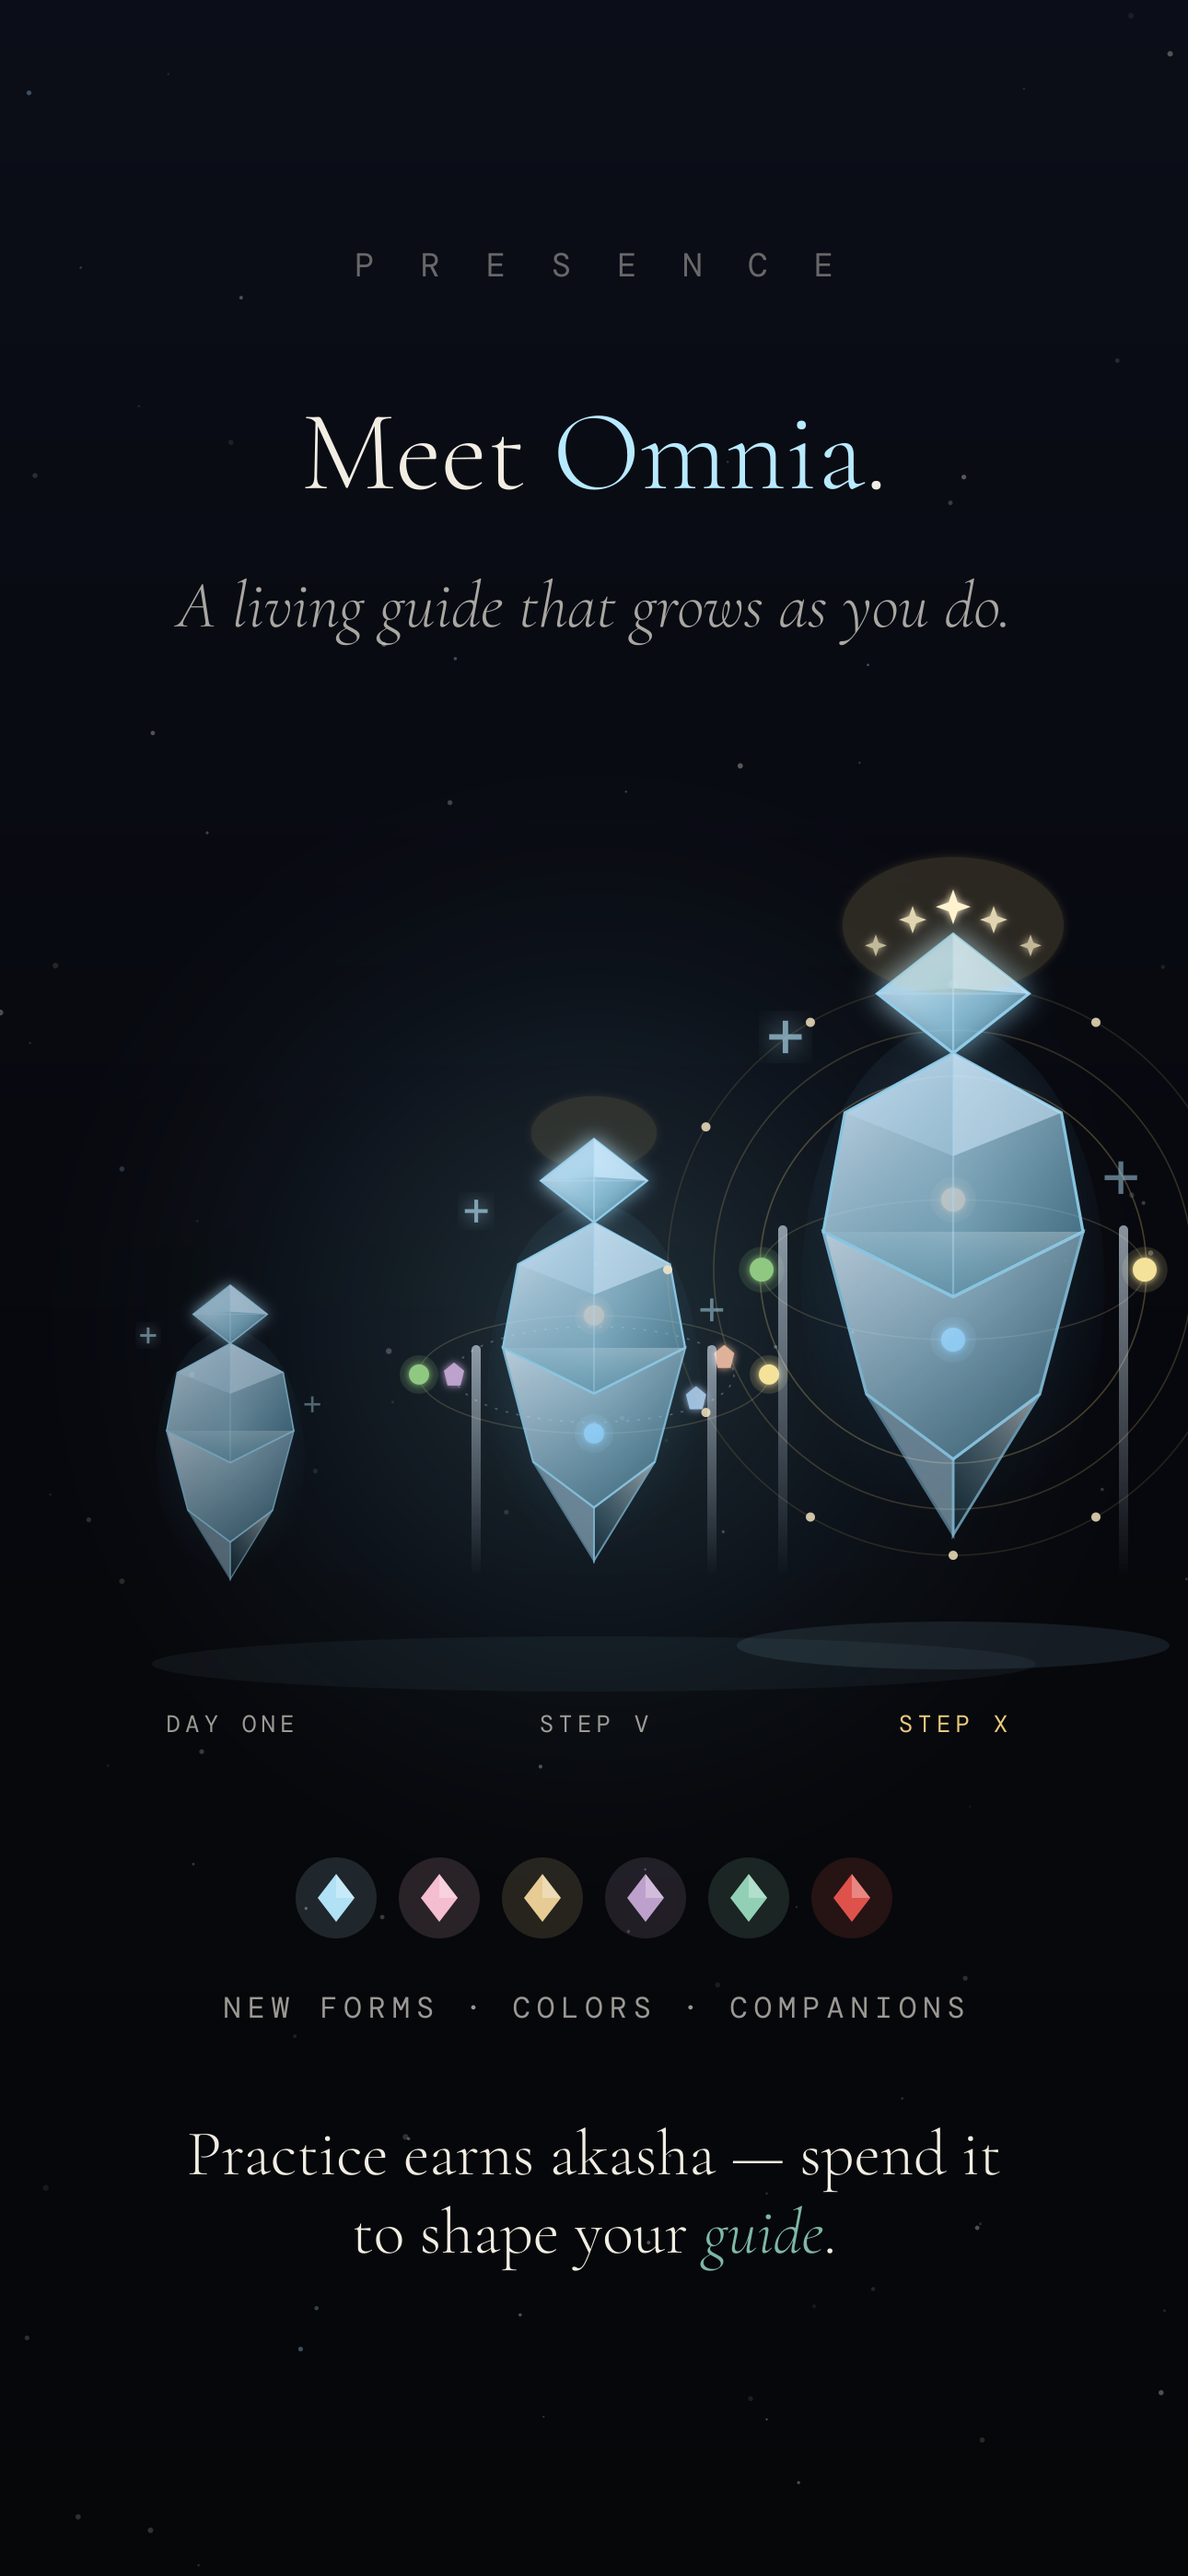
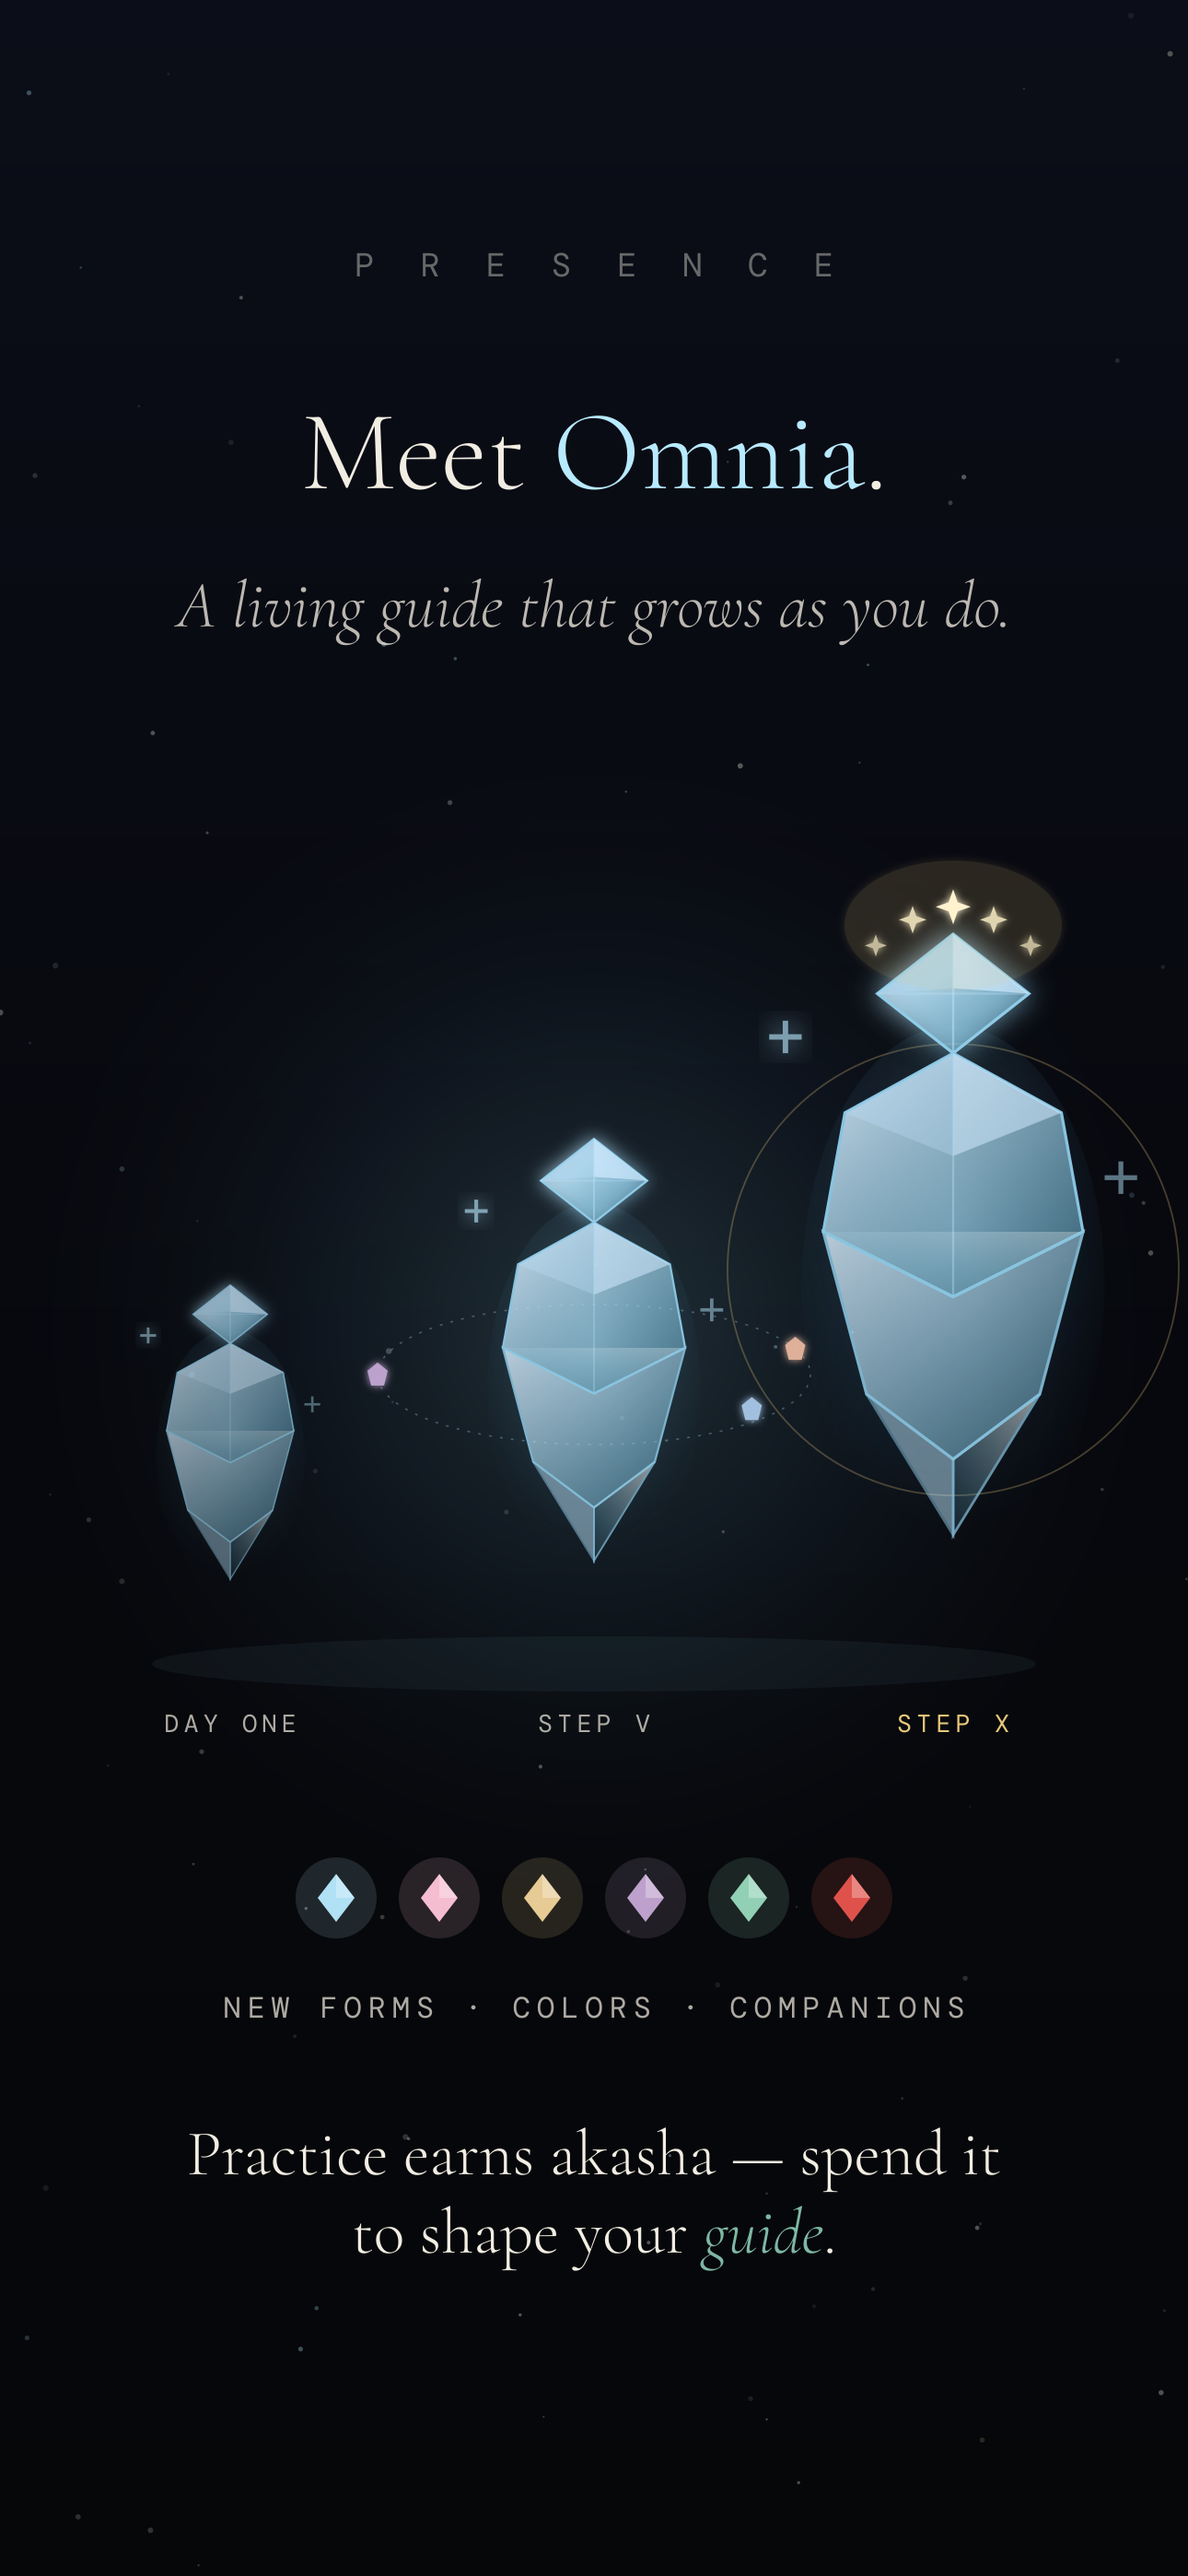
Marketing screenshots round 2: brighter copy, decluttered cards 02-05
- 02: headline 'Structured, interactive occult exercises.' in ink (green removed); 'The Clock' -> 'Clock'
- 03: clean growth triptych, removed element-wheel/pillar/mandala clutter
- 04: 'A path adapted to you.'; brighter meta text for legibility
- 05: 'LEVEL UP' copy; removed three stat chips; enlarged sphere ring

diff --git a/marketing/generate.js b/marketing/generate.js
@@ -181,7 +181,7 @@ const INK2 = 'rgba(232,227,216,0.66)';
 function card2() {
   // In-game exercise cards: stacked full-width, per-exercise accent tint.
   const rows = [
-    { id:'clock',      name: 'The Clock',       sub: 'UNBROKEN FOCUS',  c: '#e07c3a' },
+    { id:'clock',      name: 'Clock',           sub: 'UNBROKEN FOCUS',  c: '#e07c3a' },
     { id:'visual',     name: 'Visualization',   sub: 'THE INNER EYE',   c: '#6e9fd4' },
     { id:'auditory',   name: 'Auditory',        sub: 'THE INNER EAR',   c: '#6eb8a4' },
     { id:'thought',    name: 'Thought Control', sub: 'MASTER THE MIND', c: '#7898b8' },
@@ -208,13 +208,13 @@ function card2() {
   return shell(`
   <defs>${defs}</defs>
   ${wordmark(300)}
-  ${serif(W / 2, 530, 116, INK, 'Interactive,')}
-  ${serif(W / 2, 670, 116, ACCENT, 'occult exercises.', 'middle', 'font-style="italic"')}
+  ${serif(W / 2, 530, 112, INK, 'Structured, interactive')}
+  ${serif(W / 2, 670, 112, INK, 'occult exercises.', 'middle', 'font-style="italic"')}
   ${g}
   `, 19);
 }
 
-// ── card 3: meet Omnia — grown with the app's real step regalia ──────────────
+// ── card 3: meet Omnia — clean growth triptych ───────────────────────────────
 
 function card3() {
   const BASE = 1760;
@@ -229,42 +229,17 @@ function card3() {
   const cx2 = forms[1].cx, cx3 = forms[2].cx;
   const top3 = BASE - 130 * (forms[2].w / 80);
 
-  // In-game tiers, cumulative:
-  // II triad shards · III crown glow · IV polar pillars · V element wheel
+  // Step V: one quiet orbit with the three body-shards.
   const shardCols = ['#e8b8a0', '#c4a8d4', '#a8c8e8'];
-  const orbit = (cx, cy, rx, ry) => {
-    let o = `<ellipse cx="${cx}" cy="${cy}" rx="${rx}" ry="${ry}" fill="none" stroke="#b8eaff" stroke-opacity="0.3" stroke-width="1.6" stroke-dasharray="3 9"/>`;
-    [[0.06, -1], [0.5, 1.06], [0.88, -0.72]].forEach((p, i) => {
-      const a = p[0] * Math.PI * 2, sx = cx + Math.cos(a) * rx, sy = cy + Math.sin(a) * ry * p[1];
-      o += `<polygon points="${sx},${sy - 13} ${sx + 11},${sy - 4} ${sx + 7},${sy + 12} ${sx - 7},${sy + 12} ${sx - 11},${sy - 4}" fill="${shardCols[i]}" opacity="0.95" filter="url(#soft)"/>`;
-    });
-    return o;
-  };
-  const elements = (cx, cy, rx, ry, r) => {
-    const cols = ['#ff8b4d', '#f5e29a', '#6bb8ff', '#8fc880']; // fire air water earth
-    let e = `<ellipse cx="${cx}" cy="${cy}" rx="${rx}" ry="${ry}" fill="none" stroke="#f5e29a" stroke-opacity="0.18" stroke-width="1.4"/>`;
-    [[0, -1], [1, 0], [0, 1], [-1, 0]].forEach((d, i) => {
-      const ex = cx + d[0] * rx, ey = cy + d[1] * ry;
-      e += `<circle cx="${ex}" cy="${ey}" r="${r}" fill="${cols[i]}" filter="url(#soft)"/>
-            <circle cx="${ex}" cy="${ey}" r="${r * 1.9}" fill="${cols[i]}" opacity="0.14"/>`;
-    });
-    return e;
-  };
-  const crownGlow = (cx, cy, rx, ry, o) =>
-    `<ellipse cx="${cx}" cy="${cy}" rx="${rx}" ry="${ry}" fill="${GOLD}" opacity="${o}" filter="url(#soft)"/>`;
-  const pillar = (px, h) => `<rect x="${px - 5}" y="${BASE - h - 50}" width="10" height="${h}" rx="5" fill="url(#pillarG)" opacity="0.7"/>`;
-  // X: apotheosis mandala + mirror disc
-  const apo = () => {
-    let a = '';
-    [[210, 0.28], [260, 0.20], [310, 0.13]].forEach((rr) => {
-      a += `<circle cx="${cx3}" cy="${bigCy}" r="${rr[0]}" fill="none" stroke="${GOLD}" stroke-opacity="${rr[1]}" stroke-width="1.6"/>`;
-    });
-    for (let i = 0; i < 12; i++) {
-      const an = (i / 12) * Math.PI * 2;
-      a += `<circle cx="${cx3 + Math.cos(an) * 310}" cy="${bigCy + Math.sin(an) * 310}" r="5" fill="#ffeec8" opacity="0.8"/>`;
-    }
-    return a;
-  };
+  let orbit = `<ellipse cx="${cx2}" cy="${midCy}" rx="235" ry="76" fill="none" stroke="#b8eaff" stroke-opacity="0.3" stroke-width="1.6" stroke-dasharray="3 9"/>`;
+  [[0.06, -1], [0.5, 1.06], [0.88, -0.72]].forEach((pp, i) => {
+    const a = pp[0] * Math.PI * 2, sx = cx2 + Math.cos(a) * 235, sy = midCy + Math.sin(a) * 76 * pp[1];
+    orbit += `<polygon points="${sx},${sy - 13} ${sx + 11},${sy - 4} ${sx + 7},${sy + 12} ${sx - 7},${sy + 12} ${sx - 11},${sy - 4}" fill="${shardCols[i]}" opacity="0.95" filter="url(#soft)"/>`;
+  });
+
+  // Step X: halo, drawn diadem, and a single thin gold ring.
+  const halo = `<ellipse cx="${cx3}" cy="${top3 + 8}" rx="118" ry="70" fill="${GOLD}" opacity="0.15" filter="url(#soft)"/>`;
+  const ringX = `<circle cx="${cx3}" cy="${bigCy}" r="245" fill="none" stroke="${GOLD}" stroke-opacity="0.28" stroke-width="1.8"/>`;
   const diadem =
     star4(cx3 - 84, top3 + 30, 12, '#f4e8c0', 0.75) +
     star4(cx3 - 44, top3 + 2, 15, '#f4e8c0', 0.9) +
@@ -281,35 +256,23 @@ function card3() {
       <polygon points="${x},${y - 26} ${x + 20},${y} ${x},${y}" fill="#ffffff" opacity="0.30"/>`;
   });
   return shell(`
-  <defs>
-    <linearGradient id="pillarG" x1="0" y1="0" x2="0" y2="1">
-      <stop offset="0" stop-color="#dff0ff" stop-opacity="0.85"/>
-      <stop offset="1" stop-color="#dff0ff" stop-opacity="0"/>
-    </linearGradient>
-  </defs>
   <ellipse cx="${W / 2}" cy="1440" rx="640" ry="660" fill="url(#glow)"/>
   ${wordmark(300)}
   ${serif(W / 2, 530, 124, INK, `Meet <tspan fill="${BLUE}">Omnia</tspan>.`)}
-  ${serif(W / 2, 680, 72, 'rgba(232,227,216,0.72)', 'A living guide that grows as you do.', 'middle', 'font-style="italic"')}
+  ${serif(W / 2, 680, 72, 'rgba(238,233,222,0.78)', 'A living guide that grows as you do.', 'middle', 'font-style="italic"')}
   <g opacity="0.8">${at('c3a', forms[0])}</g>
-  ${elements(cx2, midCy, 190, 64, 11)}
-  ${orbit(cx2, midCy, 152, 52)}
-  ${pillar(cx2 - 128, 250)}${pillar(cx2 + 128, 250)}
-  ${crownGlow(cx2, midCy - 130 * (forms[1].w / 80) / 2 + 6, 68, 40, 0.13)}
+  ${orbit}
   ${at('c3b', forms[1])}
-  ${apo()}
-  ${elements(cx3, bigCy, 208, 76, 13)}
-  ${pillar(cx3 - 185, 380)}${pillar(cx3 + 185, 380)}
+  ${ringX}
   ${at('c3c', forms[2])}
-  ${crownGlow(cx3, top3 + 8, 120, 74, 0.16)}
+  ${halo}
   ${diadem}
-  <ellipse cx="${cx3}" cy="${BASE + 26}" rx="235" ry="26" fill="#a0d2f0" opacity="0.10"/>
   <ellipse cx="${W / 2}" cy="${BASE + 46}" rx="480" ry="30" fill="#8ecce0" opacity="0.06"/>
-  ${mono(forms[0].cx, BASE + 120, 26, INK2, forms[0].label, 5)}
-  ${mono(forms[1].cx, BASE + 120, 26, INK2, forms[1].label, 5)}
-  ${mono(forms[2].cx, BASE + 120, 26, GOLD, forms[2].label, 5)}
+  ${mono(forms[0].cx, BASE + 120, 27, 'rgba(238,233,222,0.72)', forms[0].label, 5)}
+  ${mono(forms[1].cx, BASE + 120, 27, 'rgba(238,233,222,0.72)', forms[1].label, 5)}
+  ${mono(forms[2].cx, BASE + 120, 27, GOLD, forms[2].label, 5)}
   ${gems}
-  ${mono(W / 2, 2190, 32, INK2, 'NEW FORMS · COLORS · COMPANIONS', 7)}
+  ${mono(W / 2, 2190, 32, 'rgba(238,233,222,0.72)', 'NEW FORMS · COLORS · COMPANIONS', 7)}
   ${serif(W / 2, 2360, 70, INK, 'Practice earns akasha — spend it', 'middle')}
   ${serif(W / 2, 2445, 70, INK, `to shape your <tspan fill="${ACCENT}" font-style="italic">guide</tspan>.`, 'middle')}
   `, 41);
@@ -348,16 +311,16 @@ function card4() {
     <text x="${chipX}" y="${chipY + 20}" font-family="DejaVu Sans" font-size="52" fill="${r.c}" text-anchor="middle">${r.glyph}</text>
     ${doneMark}
     ${serif(x + 190, y + 100, 60, INK, r.name, 'start')}
-    ${mono(x + 192, y + 158, 27, INK2, r.meta, 4, 'start')}
+    ${mono(x + 192, y + 160, 30, 'rgba(240,235,225,0.82)', r.meta, 4, 'start')}
     ${badge}
     <rect x="${x + 190}" y="${y + 210}" width="${w - 310}" height="8" rx="4" fill="rgba(221,216,206,0.10)"/>
     <rect x="${x + 190}" y="${y + 210}" width="${(w - 310) * r.prog}" height="8" rx="4" fill="${r.c}" opacity="0.85"/>`;
   });
   return shell(`
   ${wordmark(300)}
-  ${serif(W / 2, 530, 116, INK, 'A path paced')}
+  ${serif(W / 2, 530, 116, INK, 'A path adapted')}
   ${serif(W / 2, 670, 116, INK, `to <tspan fill="${ACCENT}" font-style="italic">you</tspan>.`)}
-  ${mono(W / 2, 800, 36, INK2, 'OMNIA BUILDS EACH DAY AROUND YOUR NUMBERS', 5)}
+  ${mono(W / 2, 800, 37, 'rgba(240,235,225,0.82)', 'OMNIA BUILDS EACH DAY AROUND YOUR NUMBERS', 5)}
   ${g}
   `, 67);
 }
@@ -377,7 +340,7 @@ function goldCrystal(idp) {
 }
 
 function card5() {
-  const cx = W / 2, cy = 1500, R = 430;
+  const cx = W / 2, cy = 1580, R = 480;
   const spheres = [
     ['⊕', '#9cb88a'], ['☽', '#cdd6e8'], ['☿', '#e8b060'], ['♀', '#e89ab8'], ['☉', '#f0d860'],
     ['♂', '#e06858'], ['♃', '#8898e8'], ['♄', '#8a98b0'], ['♅', '#7ed8e8'], ['♇', '#9a6ae8'],
@@ -394,37 +357,19 @@ function card5() {
       <text x="${sx}" y="${sy + 22}" font-family="DejaVu Sans" font-size="58" fill="${sp[1]}" text-anchor="middle" filter="url(#soft)">${sp[0]}</text>`;
   });
   // prestige pips beneath the gold crystal
-  const pips = [-56, 0, 56].map((dx) => star4(cx + dx, cy + 300, 17, '#f4e2b0', 0.95)).join('');
-  const stats = [
-    { v: '15', l: 'TOOLS FORGED', c: GOLD },
-    { v: '◆', l: 'DARK MATTER', c: '#b48ce0' },
-    { v: '10', l: 'SPHERES', c: BLUE },
-  ];
-  let chips = '';
-  const chw = 330, chh = 220, chGap = 32;
-  stats.forEach((st, i) => {
-    const x = (W - (chw * 3 + chGap * 2)) / 2 + i * (chw + chGap), y = 2100;
-    const val = st.v === '◆'
-      ? `<text x="${x + chw / 2}" y="${y + 128}" font-family="DejaVu Sans" font-size="84" fill="${st.c}" text-anchor="middle" filter="url(#soft)">◆</text>`
-      : serif(x + chw / 2, y + 122, 88, st.c, st.v);
-    chips += `
-    <rect x="${x}" y="${y}" width="${chw}" height="${chh}" rx="26" fill="#0e0f17"/>
-    <rect x="${x}" y="${y}" width="${chw}" height="${chh}" rx="26" fill="none" stroke="${st.c}" stroke-opacity="0.30" stroke-width="2"/>
-    ${val}
-    ${mono(x + chw / 2, y + 176, 23, MUTED, st.l, 4)}`;
-  });
+  const pips = [-56, 0, 56].map((dx) => star4(cx + dx, cy + 330, 17, '#f4e2b0', 0.95)).join('');
+
   return shell(`
   <ellipse cx="${cx}" cy="${cy}" rx="660" ry="680" fill="url(#glow)"/>
   <ellipse cx="${cx}" cy="${cy}" rx="420" ry="440" fill="${GOLD}" opacity="0.05"/>
   ${wordmark(300)}
   ${serif(W / 2, 530, 108, INK, 'Based on Franz Bardon’s')}
   ${serif(W / 2, 670, 116, GOLD, 'Hermetics.', 'middle', 'font-style="italic"')}
-  ${mono(W / 2, 800, 36, INK2, 'TEN STEPS · PRESTIGES · EXERCISES', 5)}
+  ${mono(W / 2, 800, 37, 'rgba(240,235,225,0.82)', 'TEN STEPS · PRESTIGES · LEVEL UP', 5)}
   ${ring}
-  <g transform="translate(${cx - 150}, ${cy - 262}) scale(3.75)">${goldCrystal('g5')}</g>
+  <g transform="translate(${cx - 160}, ${cy - 280}) scale(4)">${goldCrystal('g5')}</g>
   ${pips}
-  ${chips}
-  ${serif(W / 2, 2540, 72, INK, 'Idle mechanics reinforce practice.', 'middle')}
+  ${serif(W / 2, 2480, 74, INK, 'Idle mechanics reinforce practice.', 'middle')}
   `, 83);
 }
 
